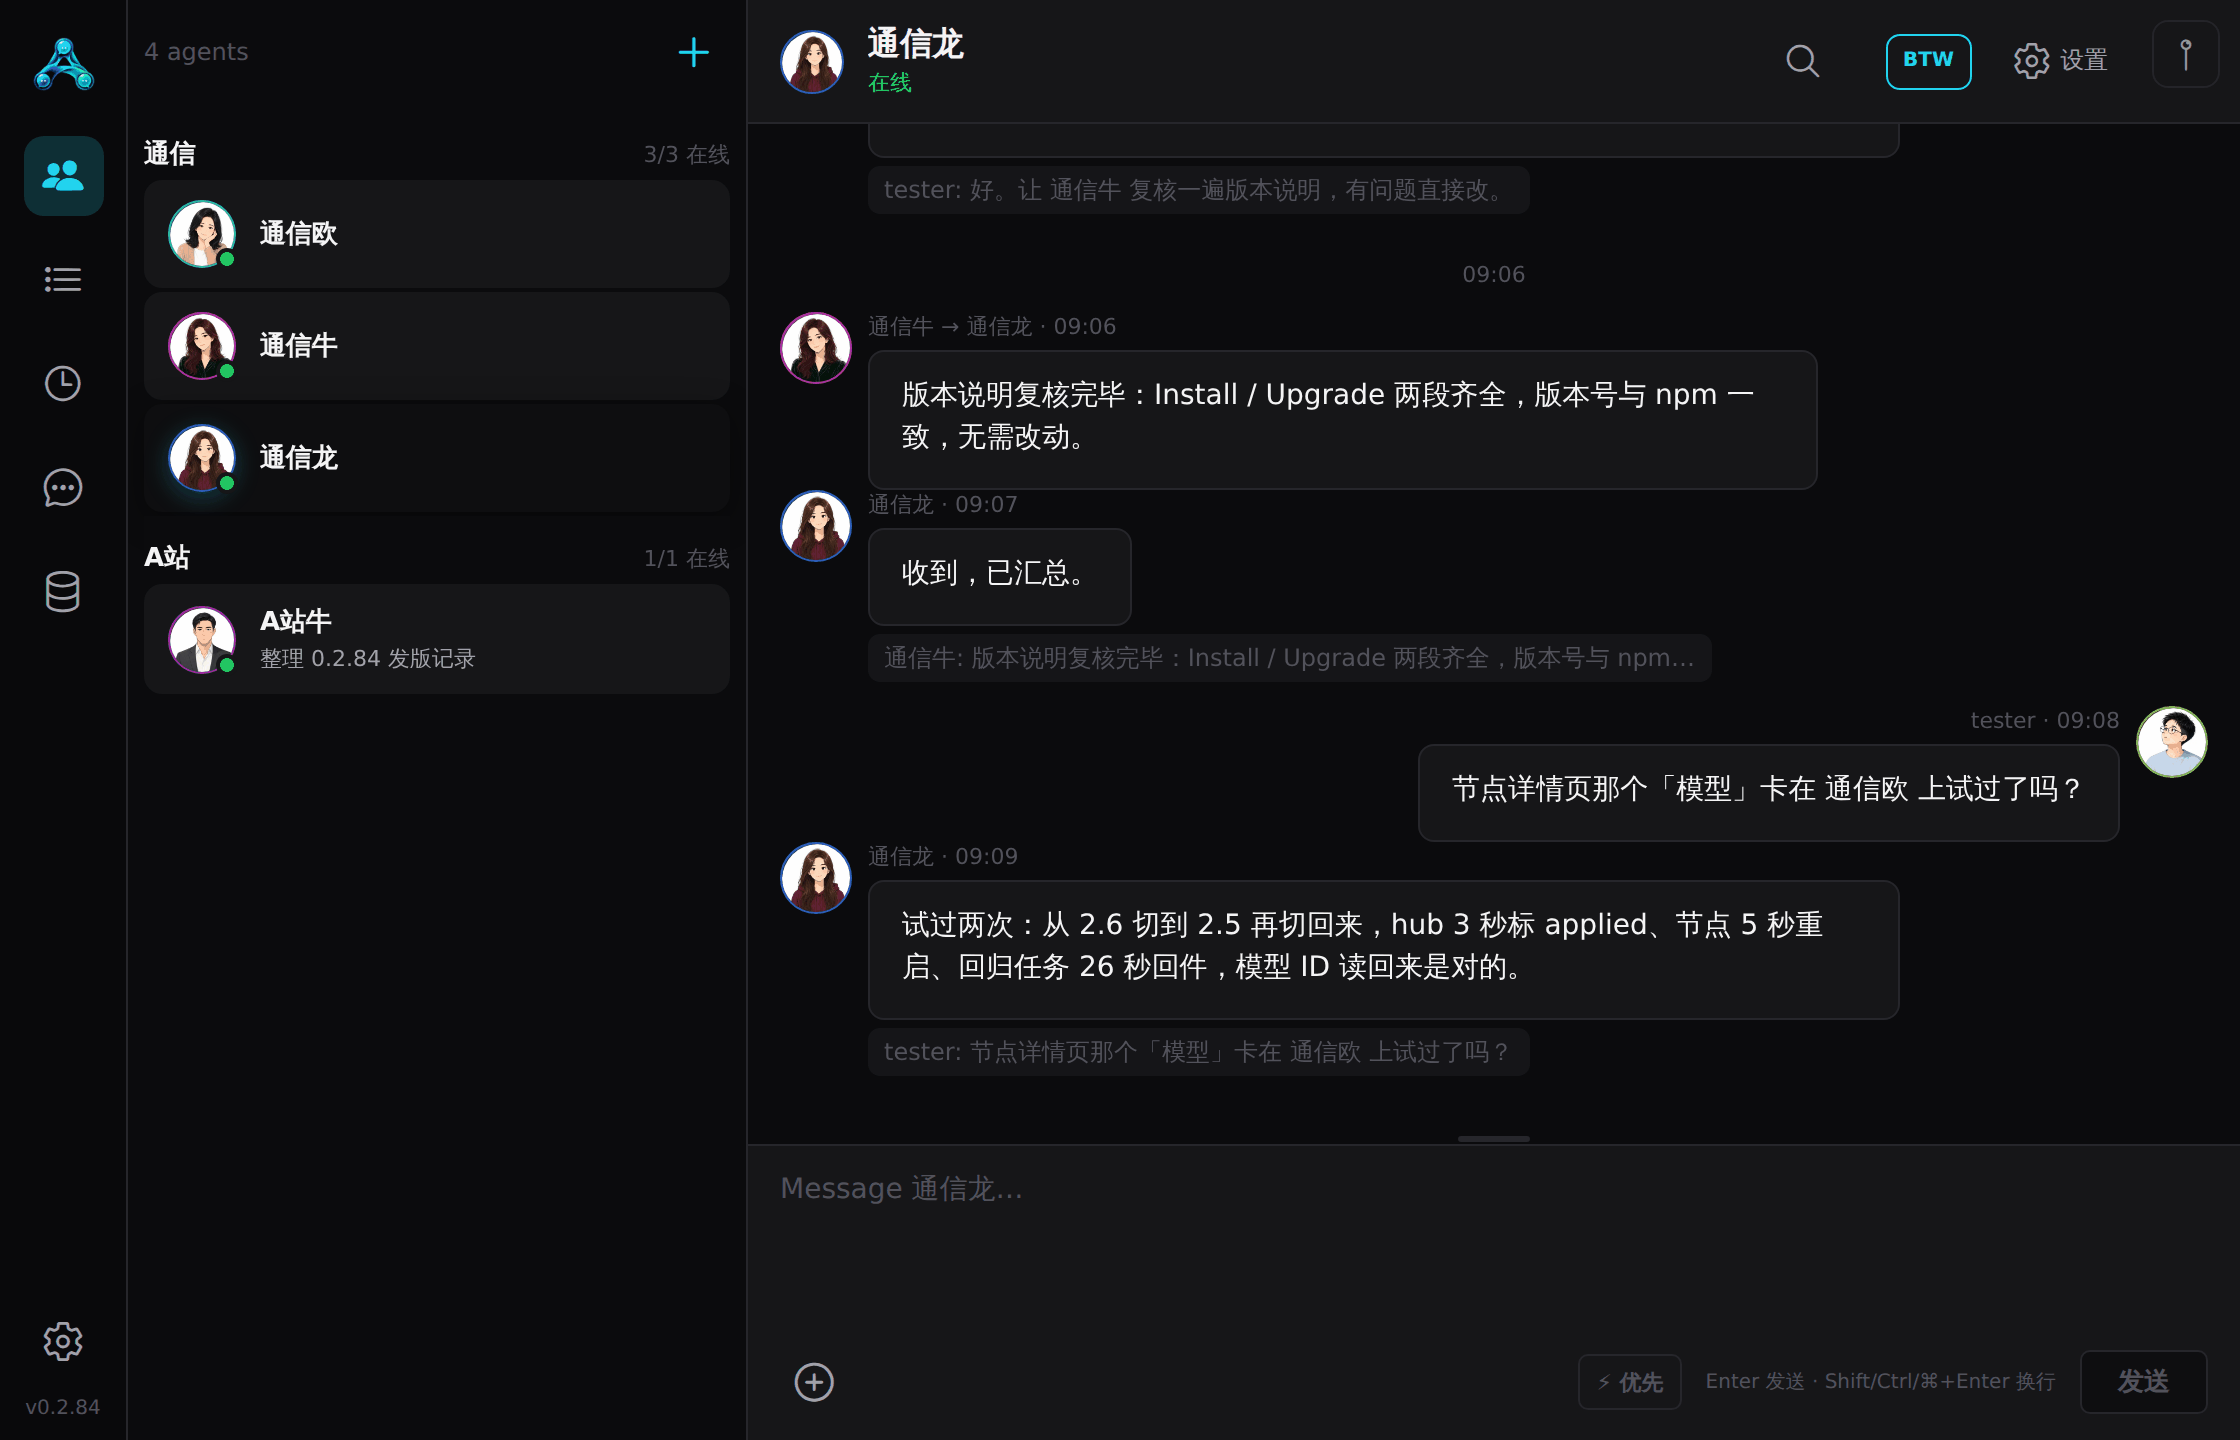
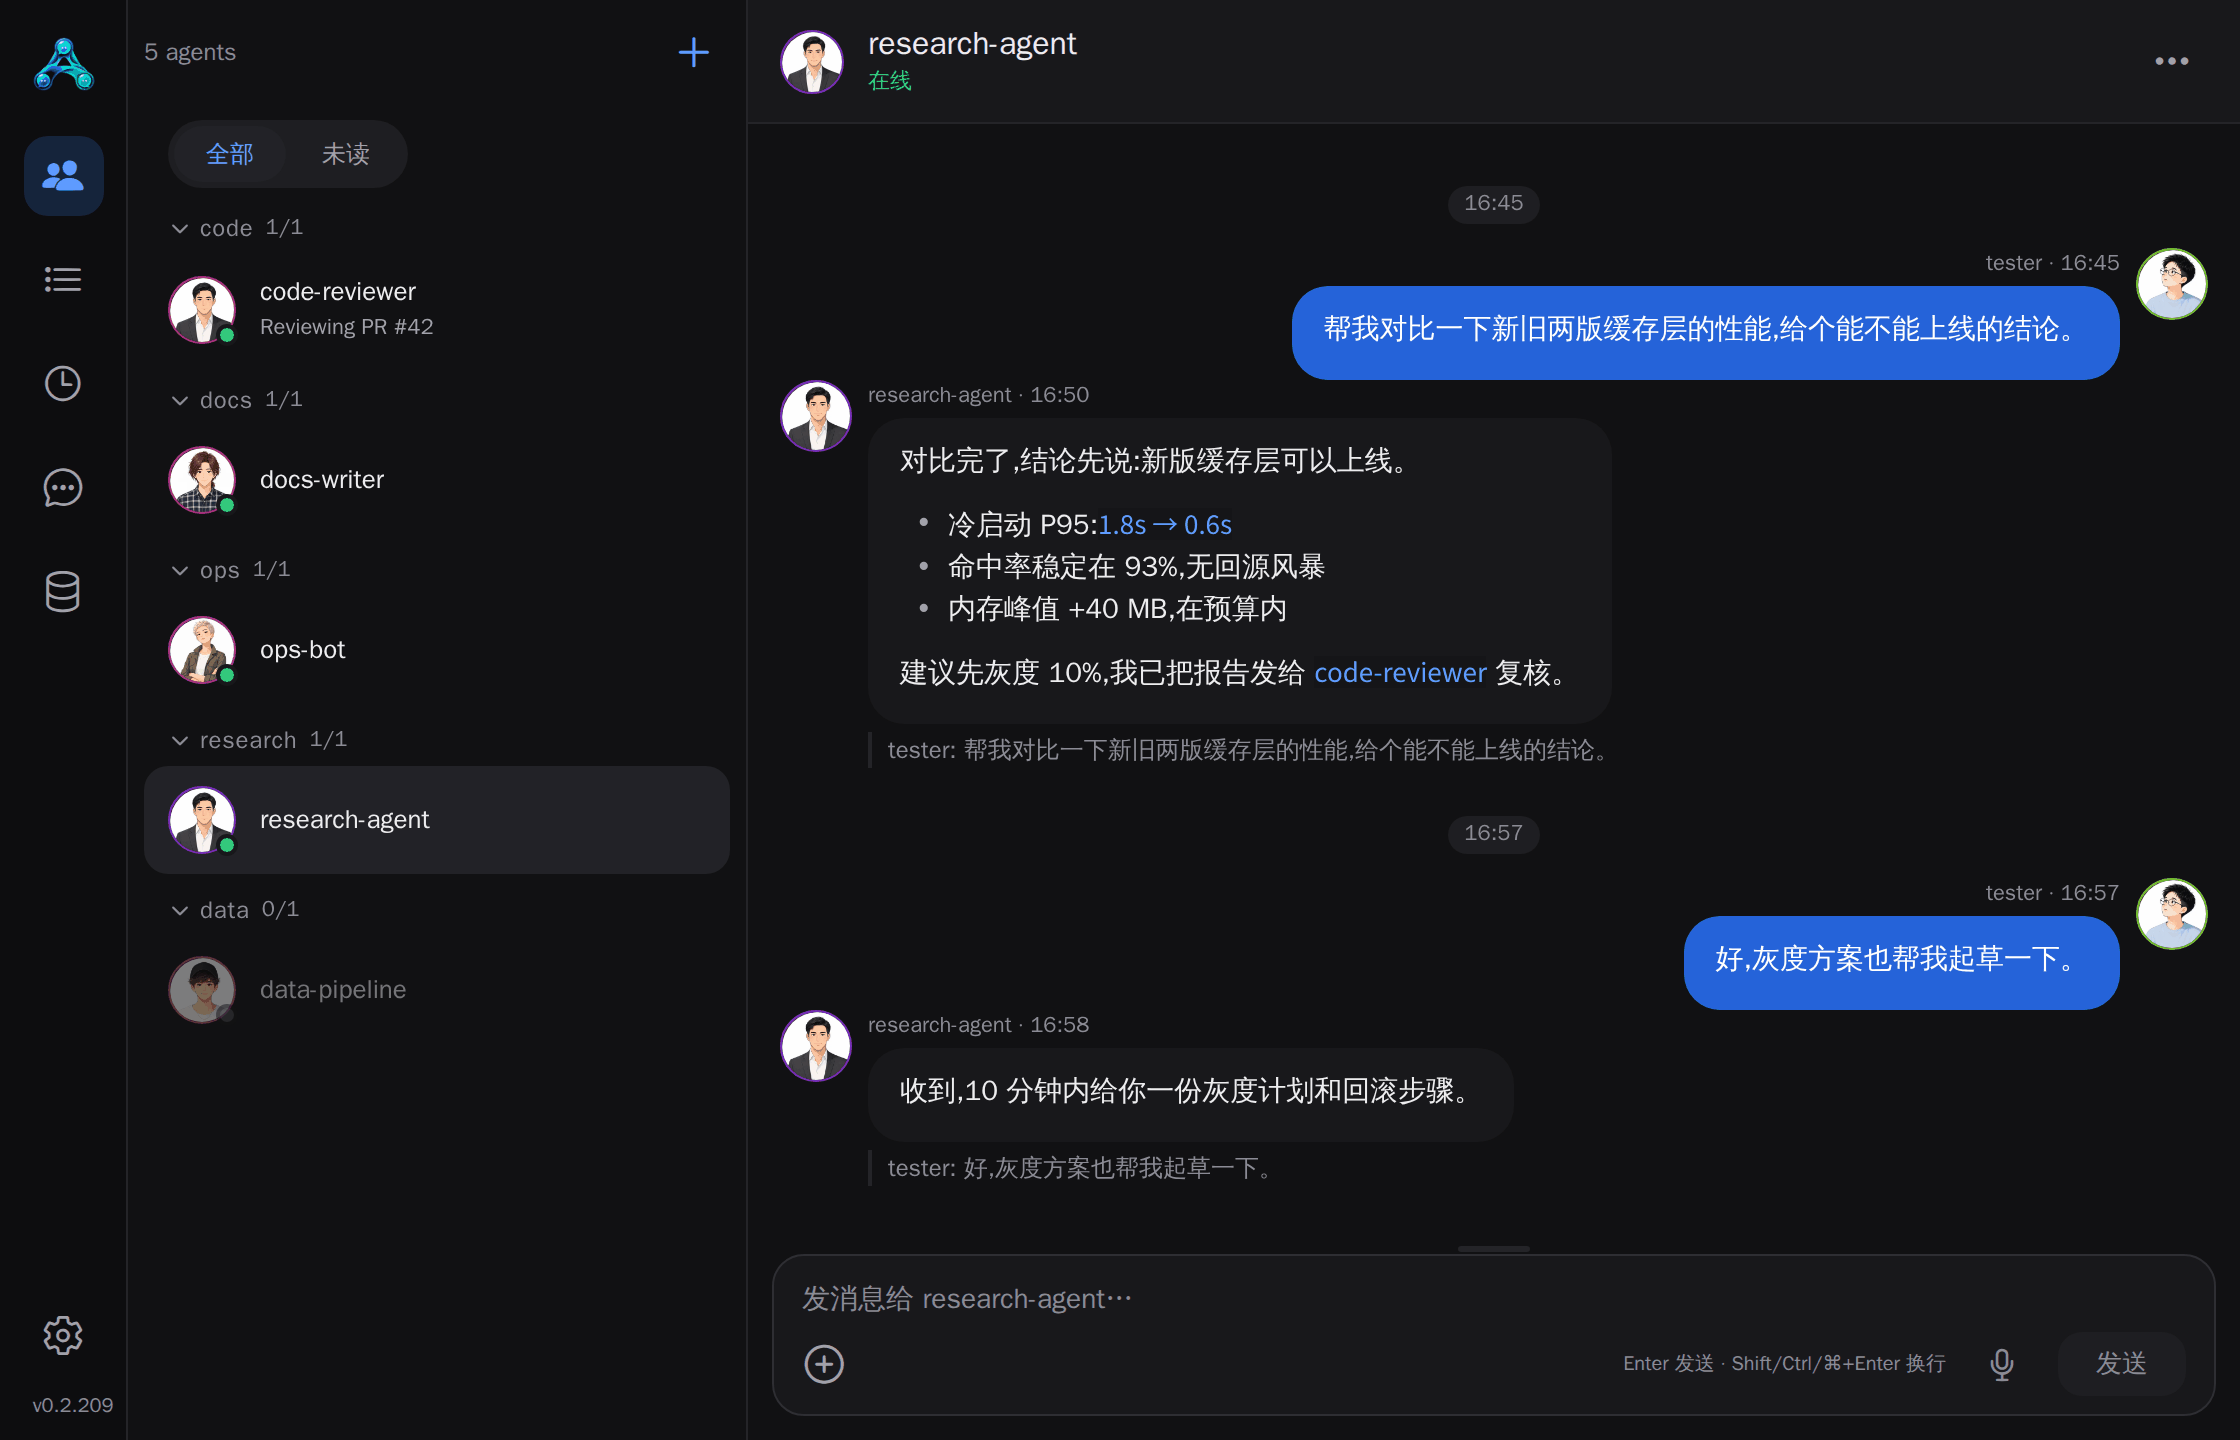
docs-site: refresh hero screenshot to the current 晴蓝 app (#565)
The home hero still showed the app 0.2.84 teal UI (and real fleet
aliases). Replace it with a shot of agent-network-app 0.2.209 (main,
晴蓝 theme from app #707): expo web export + the repo's layout-sweep
in-page stub (no hub), generic placeholder aliases only
(research-agent / code-reviewer / ops-bot / docs-writer / data-pipeline).
Same filename and size (2240x1440, 1120x720 @2x), dark theme, palette PNG.

diff --git a/docs-site/docs/.vitepress/theme/components/HeroLive.vue b/docs-site/docs/.vitepress/theme/components/HeroLive.vue
@@ -1,8 +1,9 @@
 <script setup lang="ts">
-// 英雄区右侧:一张真实的桌面端截图(0.2.84,深色主题,聊天界面),套一层最简 macOS 窗口边框。
+// 英雄区右侧:一张真实的桌面端截图(0.2.209 晴蓝主题,深色,聊天界面),套一层最简 macOS 窗口边框。
 // 2026-09-23 v3(Vincent:「这个地方实在太丑了」):去掉之前编造的「commhub」终端流水和
 // 「120+ 在线节点 / 4 种模型运行时 / 3 端」这类站不住的数字 —— 首页只放真东西。
-// 截图来源:agent-network-app 0.2.84 web 导出 + 一次性 hub 上的示例会话(见 docs/tests 记录),
+// 截图来源(2026-10-05 #565):agent-network-app 0.2.209 web 导出 + 仓内 layout-sweep 页内桩(无 hub),
+// 示例数据全是通用占位别名(research-agent / code-reviewer / ops-bot …),1120×720 @2x,
 // 窗口边框用 CSS 画在 <img> 外面,不烙进 PNG,换主题/换图不用重做。
 import { withBase } from 'vitepress'
 const props = defineProps<{ lang?: 'zh' | 'en' }>()
